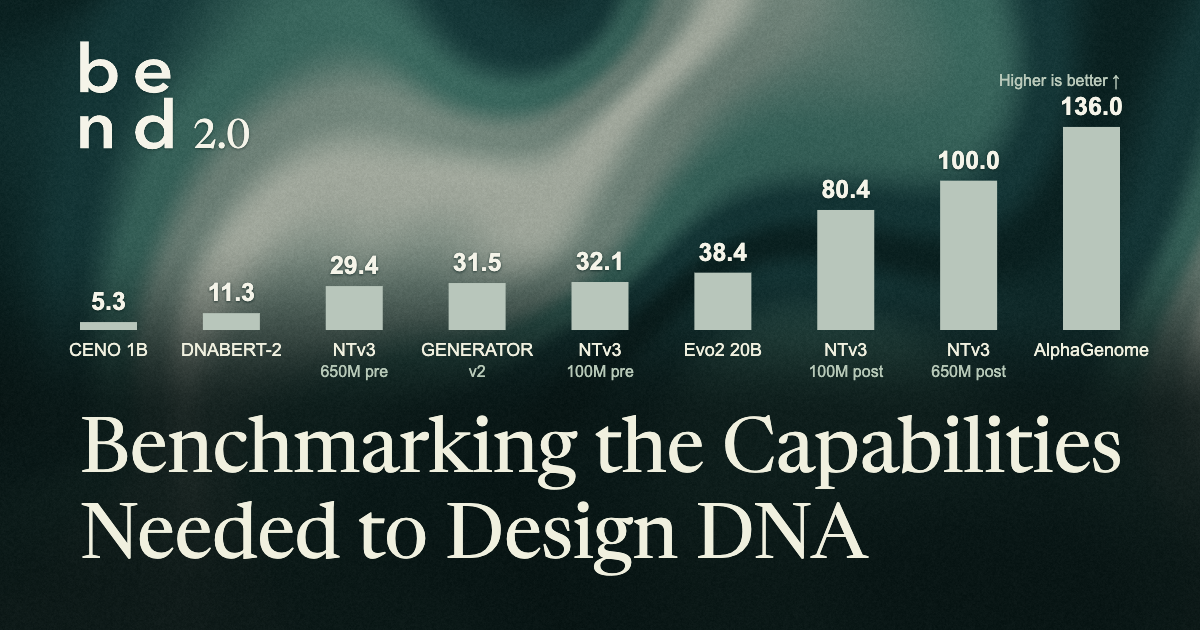
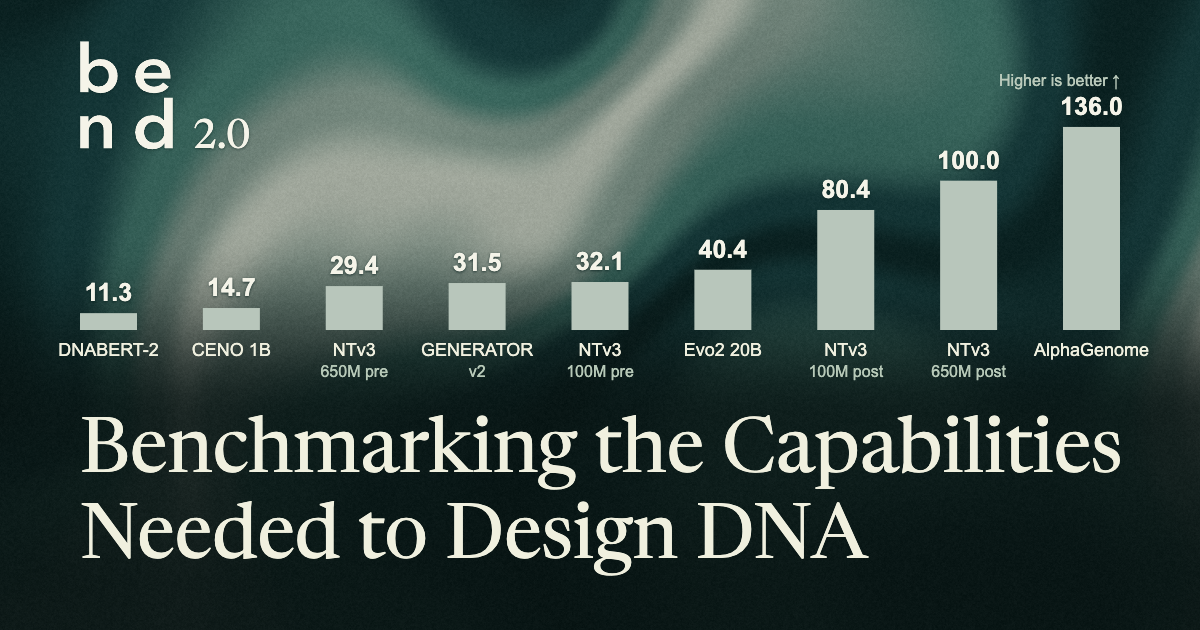
Prepare package publication and website release metadata

diff --git a/website/src/app.js b/website/src/app.js
@@ -436,11 +436,11 @@ function submissionDialog() {
     <p>Follow the <a href="https://github.com/MachineLearningLifeScience/BEND2/blob/main/README.md" target="_blank" rel="noopener noreferrer">README</a> to install BEND and create your adapter. Atlas uses short sequences and includes the data in the package.</p>
     <pre><code>bend2 run my_model.py --tasks atlas_profile --output results/my-model</code></pre>
     <h3>2. Submit for review</h3>
-    <p>After the public release, install GitHub CLI, sign in, and run:</p>
+    <p>Install GitHub CLI, sign in, and run:</p>
     <pre><code>bend2 submit results/my-model --github \\
   --model-url https://huggingface.co/your-lab/your-model</code></pre>
     <p>The command uploads an evidence ZIP to your BEND fork and opens a pull request with the result record. Maintainers check the model setup and rescore every submitted task. Accepted results are labelled “Contributor evaluated.” Tasks rerun independently by BEND receive “Reproduced by BEND.” Your row appears after the PR is merged and the website rebuilds.</p>
-    <p>During private development, provide <code>--github OWNER/REPO</code> with a public repository you can write to. The <a href="https://github.com/MachineLearningLifeScience/BEND2/blob/main/docs/submitting.md" target="_blank" rel="noopener noreferrer">submission guide</a> explains the options.</p>
+    <p>To host evidence in another public repository, use <code>--github OWNER/REPO</code>. The <a href="https://github.com/MachineLearningLifeScience/BEND2/blob/main/docs/submitting.md" target="_blank" rel="noopener noreferrer">submission guide</a> explains the options.</p>
     <div class="participate-actions"><a class="dark-button" style="color:var(--paper)" href="https://github.com/MachineLearningLifeScience/BEND2/blob/main/docs/submitting.md" target="_blank" rel="noopener noreferrer">Submission guide ↗</a><a href="https://github.com/MachineLearningLifeScience/BEND2/tree/main/submissions" target="_blank" rel="noopener noreferrer">Reviewed submissions ↗</a></div>
     <p>To host evidence elsewhere, export it and use <code>bend2 submit --evidence-url</code>, then open a PR with the generated JSON. You can also <a href="https://github.com/MachineLearningLifeScience/BEND2/issues/new?template=model.yml" target="_blank" rel="noopener noreferrer">send the generated JSON and evidence link in a submission issue</a> for maintainer help.</p>`,
   );

diff --git a/website/index.html b/website/index.html
@@ -10,6 +10,7 @@
     />
     <meta property="og:type" content="website" />
     <meta property="og:site_name" content="BEND 2.0" />
+    <meta property="og:locale" content="en_US" />
     <meta property="og:title" content="BEND 2.0: Benchmarking the Capabilities Needed to Design DNA" />
     <meta property="og:description" content="Can genomic models guide DNA design? Compare results across eight tasks in BEND 2.0." />
     <meta property="og:image" content="./assets/social-preview.png" />
@@ -58,7 +59,7 @@
           </nav>
           <nav class="publication-links" aria-label="Project links">
             <a href="https://github.com/MachineLearningLifeScience/BEND2" target="_blank" rel="noopener noreferrer">GitHub <span aria-hidden="true">↗</span></a>
-            <a href="https://example.com/paper" target="_blank" rel="noopener noreferrer" title="Paper link — placeholder">Paper <span aria-hidden="true">↗</span></a>
+            <span class="paper-forthcoming" title="The paper link will be added here when available.">Paper forthcoming</span>
           </nav>
         </div>
       </div>

diff --git a/website/src/navigation.css b/website/src/navigation.css
@@ -78,7 +78,7 @@
 .atlas-layout .research-header .page-nav a:hover::after { opacity:1; transform:scaleX(1); }
 .research-header :is(a,button):focus-visible { outline:2px solid var(--nav-muted); outline-offset:6px; }
 .publication-links { display:flex; align-items:center; gap:24px; }
-.publication-links a { display:inline-flex; align-items:center; gap:6px; min-height:44px; color:var(--nav-muted); font:13px/1.2 var(--sans); white-space:nowrap; text-decoration:none; }
+.publication-links :is(a,.paper-forthcoming) { display:inline-flex; align-items:center; gap:6px; min-height:44px; color:var(--nav-muted); font:13px/1.2 var(--sans); white-space:nowrap; text-decoration:none; }
 .publication-links a:hover { color:var(--nav-ink); }
 .publication-links a > span { font-size:12px; opacity:.7; }
 .navigation-toggle { display:none; }

diff --git a/docs/releasing.md b/docs/releasing.md
@@ -1,0 +1,64 @@
+# Publishing BEND 2.0
+
+The code, Python package and leaderboard are released from this repository.
+Versioned benchmark inputs remain on Hugging Face; their revisions and checksums
+are recorded in `src/bend2/assets.json`.
+
+## Website
+
+Enable GitHub Pages in the repository settings and choose **GitHub Actions** as
+the source. The `Deploy GitHub Pages` workflow publishes the website from `main`
+at <https://machinelearninglifescience.github.io/BEND2/>. It can also be run
+manually. The workflow tests the benchmark and builds reviewed submissions
+before deploying.
+
+## PyPI with the local credential
+
+The first release uses the existing PyPI token in macOS Keychain, stored for
+`https://upload.pypi.org/legacy/` with username `__token__`. Twine reads it directly;
+do not put the token in a command, file or repository secret.
+
+```bash
+python -m build
+python -m twine check --strict dist/*
+TWINE_USERNAME=__token__ python -m twine upload --non-interactive dist/*
+```
+
+Use a clean `dist/` containing only the intended version. Test installation from
+the built wheel before uploading.
+
+## Optional GitHub trusted publishing
+
+To activate the prepared `Publish to PyPI` workflow, add a GitHub trusted
+publisher in the `bend2` project's PyPI settings with these exact values.
+For a project that does not exist yet, use a pending publisher at
+<https://pypi.org/manage/account/publishing/> instead.
+
+| Field | Value |
+| --- | --- |
+| PyPI project name | `bend2` |
+| GitHub owner | `MachineLearningLifeScience` |
+| Repository | `BEND2` |
+| Workflow filename | `publish.yml` |
+| Environment | `pypi` |
+
+Create the `pypi` GitHub environment with a maintainer as a required reviewer.
+Publishing uses short-lived GitHub credentials; no PyPI API token is stored in
+the repository. See [PyPI's setup instructions](https://docs.pypi.org/trusted-publishers/creating-a-project-through-oidc/).
+
+## Release a version
+
+1. Update the version in `pyproject.toml`, `CITATION.cff` and `CHANGELOG.md`.
+2. Confirm the benchmark tests and website build pass.
+3. Create a `vVERSION` tag and a GitHub release for the same commit.
+4. Upload locally, or run `Publish to PyPI` with that tag after trusted
+   publishing is configured and approve its `pypi` environment deployment.
+
+The publishing workflow builds the source distribution and wheel, checks their
+metadata, installs the wheel and runs the workflow tests. A separate job uploads
+those artifacts and their provenance attestations to PyPI. This workflow is
+manual; creating a GitHub release does not trigger an upload.
+
+After publication, verify installation from PyPI in a fresh environment.
+The package can be released before the website. PyPI does not allow replacing an uploaded version;
+package corrections need a new version.

diff --git a/README-pypi.md b/README-pypi.md
@@ -11,6 +11,16 @@ BEND prepares the data, fits linear readouts to your model's frozen embeddings,
 and reports task scores and predictions. Python 3.11 or later is required.
 Your model's framework and weights are installed separately.
 
+```bash
+python -m pip install bend2
+```
+
+[Benchmark data](https://huggingface.co/datasets/yhsure/BEND2)
+
+The package is available now; the GitHub repository and online leaderboard are
+awaiting their public launch. Full documentation is included in the source
+distribution under **Download files** on this page.
+
 ## Evaluate your model
 
 With BEND installed, save an adapter as `my_model.py`:
@@ -85,6 +95,6 @@ scores = run.to_dataframe()
 predictions = run.table("atlas_profile")
 ```
 
-Runs stay local until you choose to share them. The
-[source repository and full documentation](https://github.com/MachineLearningLifeScience/BEND2/tree/main)
-currently require GitHub access.
+Runs stay local until you choose to share them. Use `bend2 --help` for commands
+and `bend2 tasks` for task requirements. The source distribution includes
+`docs/submitting.md` for preparing a future leaderboard contribution.

diff --git a/website/README.md b/website/README.md
@@ -73,11 +73,11 @@ Deploy from the publication branch after the
 [maintainer review](../docs/reviewing.md). PR builds use preview mode; push
 builds require matching review records.
 
-The **Deploy GitHub Pages** workflow builds and deploys `website/dist/` when
-manually requested. Before launch, enable Pages with **GitHub Actions** as its
-source, set the real paper link, and run the workflow from `main`. Repository
-visibility and organization settings determine when Pages can be enabled.
-Preparing this workflow does not publish the site. Import provenance is recorded
+The **Deploy GitHub Pages** workflow builds and deploys `website/dist/` on pushes
+to `main` and when manually requested. Enable Pages with **GitHub Actions** as
+its source. The paper link stays disabled until its publication URL is available.
+Repository visibility and organization settings determine when Pages can be
+enabled. See [release setup](../docs/releasing.md). Import provenance is recorded
 in [snapshot.json](snapshot.json).
 
 The imported runtime includes the current navigation, design walkthrough, score

diff --git a/docs/submitting.md b/docs/submitting.md
@@ -10,7 +10,7 @@ setup before merging. Accepted results appear on the next website build.
 ## Submit a result
 
 Install [GitHub CLI](https://cli.github.com/) and authenticate once with
-`gh auth login`. After BEND's public release, the standard path is:
+`gh auth login`, then run:
 
 ```bash
 bend2 run my_model.py --tasks atlas_profile --output results/my-model
@@ -21,8 +21,7 @@ bend2 submit results/my-model --github \
 `--github` creates or reuses your BEND fork, uploads the evidence as a prerelease
 asset, and opens a PR against `main`. It prints the PR URL.
 
-**During private development**, the default fork cannot provide public evidence.
-Use an existing public repository you can write to instead:
+To upload evidence to an existing public repository you can write to instead:
 
 ```bash
 bend2 submit results/my-model --github your-lab/your-model \

diff --git a/README.md b/README.md
@@ -48,11 +48,11 @@ BEND prepares the data and fits readouts to your model’s frozen embeddings.
 Install in your model's environment with **Python 3.11 or later**:
 
 ```bash
-python -m pip install "bend2 @ git+https://github.com/MachineLearningLifeScience/BEND2.git@main"
+python -m pip install bend2
 ```
 
-The repository currently requires GitHub access; the package is not yet on PyPI.
-Install your model's framework and weights separately.
+The repository currently requires GitHub access; the package is available
+independently from PyPI. Install your model's framework and weights separately.
 
 Small datasets are included with the package. Larger files download from the
 [BEND 2.0 data release on Hugging Face](https://huggingface.co/datasets/yhsure/BEND2)

diff --git a/CHANGELOG.md b/CHANGELOG.md
@@ -1,0 +1,13 @@
+# Changelog
+
+## 1.0.0 — 2026-11-02
+
+Initial standalone release of BEND 2.0.
+
+- Eight evaluation tasks spanning sequence priors, functional prediction,
+  biological context, genetic interactions and genomic design.
+- A Python model adapter, resumable inference and task-specific fitted readouts.
+- Versioned datasets with size and SHA-256 verification, plus a bundled Atlas
+  example that runs without downloading data or model weights.
+- Results and prediction exports, contribution validation and maintainer rescoring.
+- An interactive leaderboard with reference results and task explanations.
